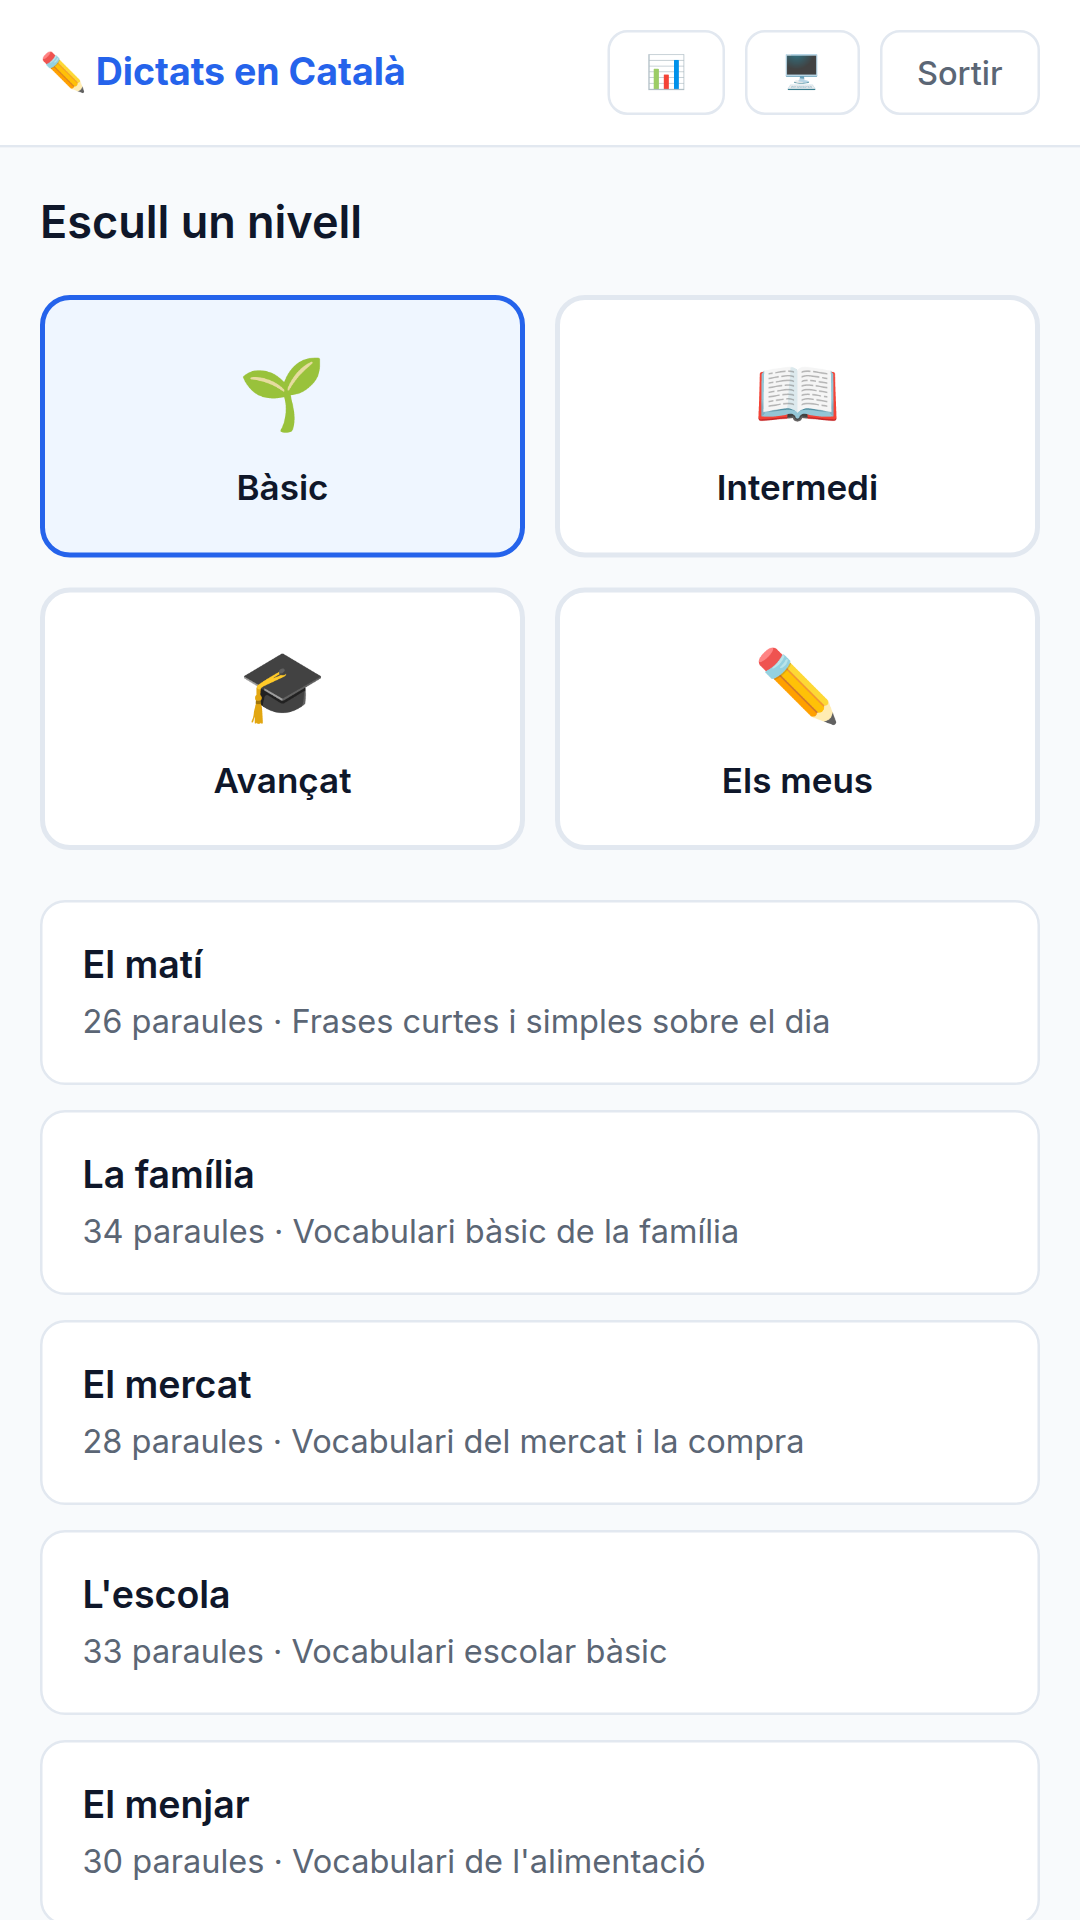
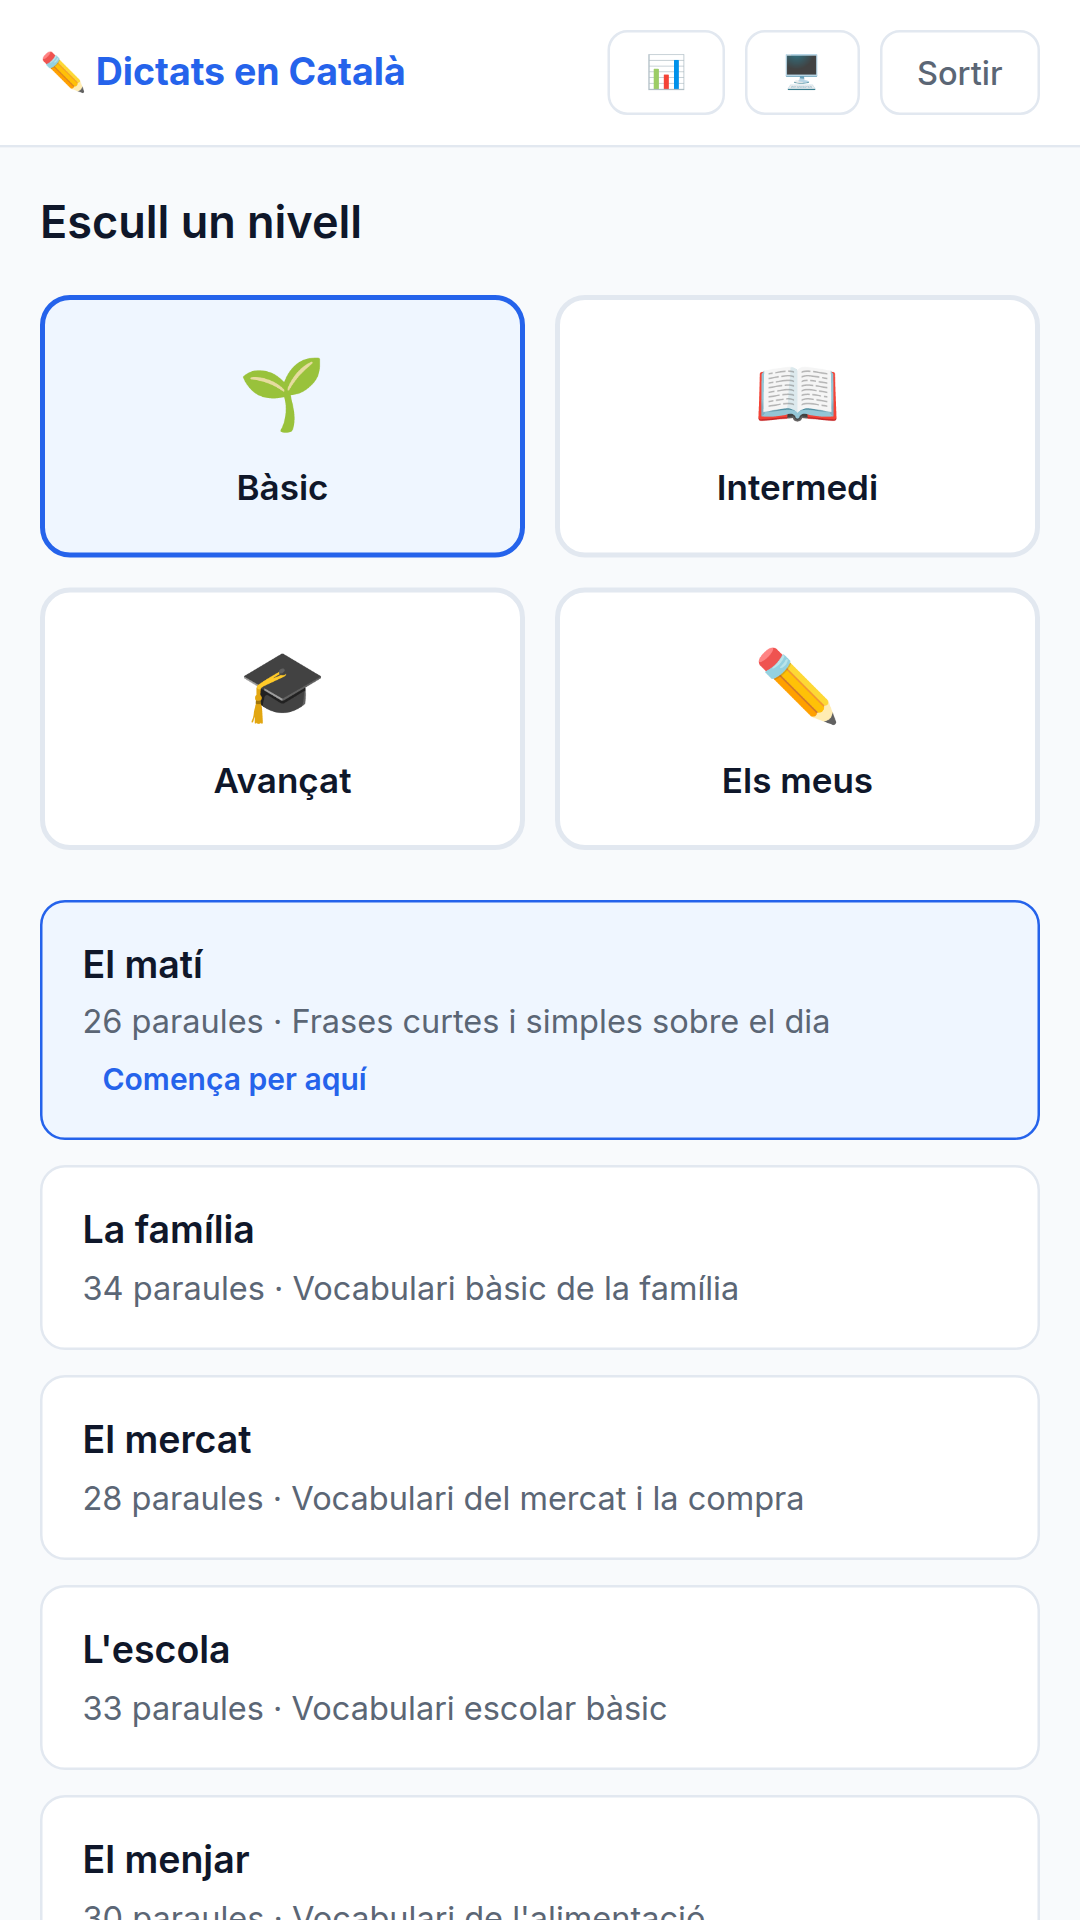
fix: el banc dictava una paraula que no existeix (F70) i les captures eren velles
Refent les captures de la fitxa va sortir que `i1` deia «marzipà», que no és
català: la paraula és «massapà». La app la dictava i la donava per bona.
Comprovat contra hunspell-ca (209.521 entrades): massapà hi és, marzipà no.

- Passat el banc sencer pel diccionari: 798 paraules, la resta d'avisos són
  falsos positius de la comprovació casera o noms propis.
- Queda una duda per a un professor: `a8` cita «Glosari» (la columna d'Eugeni
  d'Ors) i la paraula comuna avui és «glossari».
- Captures refetes: les del 04-09 ensenyaven una app que ja no existeix. Ara
  són sis, amb 06-progres.png (xifres i perfil d'errors).
- La corba de F36 no entra a la captura a posta: la sembra no toca dates, tots
  els dictats són d'avui i sortiria una sola barra.

02-dictat i 05-perfil han sortit idèntiques byte a byte: el generador és
determinista. Banc de proves sense moure's: 850/850, 0 falsos positius.

Claude-Session: https://claude.ai/code/session_01L2Z2HAD4WseweR5qmbRpb5

diff --git a/scripts/captures-play.js b/scripts/captures-play.js
@@ -110,6 +110,26 @@ const espera = ms => new Promise(r => setTimeout(r, ms));
   await espera(900);
   await fes('05-perfil');
 
+  // ── 5. El progrés ────────────────────────────────────────
+  // El capçal del perfil és el rang; el que ensenya que l'app ENTRENA i no
+  // només mesura són les xifres i «de què són els teus errors» (F26).
+  //
+  // Dues decisions d'enquadrament:
+  //  · Es descompta l'alçada del capçal enganxat, que si no tapa el títol de
+  //    la targeta.
+  //  · **No s'hi inclou la corba de F36.** La sembra fa correccions de veritat
+  //    i no toca cap data, així que tots els dictats són d'avui i la corba surt
+  //    amb una sola barra. Una barra no és una corba, i falsejar les dates per
+  //    a una captura de botiga seria ensenyar una app que no existeix.
+  await page.evaluate(() => {
+    const capcal = document.querySelector('.app-header');
+    const alt = capcal ? capcal.getBoundingClientRect().height : 0;
+    const dalt = document.getElementById('stats-grid');
+    if (dalt) window.scrollTo(0, dalt.getBoundingClientRect().top + window.scrollY - alt - 12);
+  });
+  await espera(500);
+  await fes('06-progres');
+
   console.log(`\nDictat fet servir: «${dictat.title}» amb ${ambErrors.fets} errors`);
   await browser.close();
 })().catch((e) => { console.error(e.message); process.exit(1); });

diff --git a/data/texts.js b/data/texts.js
@@ -69,7 +69,7 @@ const texts = {
     {
       id: 'i1',
       title: 'Les tradicions catalanes',
-      text: 'La Castanyada és una festa molt estimada a Catalunya. || Se celebra la nit del dia 31 d\'octubre. || La gent menja castanyes rostides i panellets. || Els panellets es fan amb marzipà i pinyons. || És una tradició que s\'ha mantingut al llarg dels segles.',
+      text: 'La Castanyada és una festa molt estimada a Catalunya. || Se celebra la nit del dia 31 d\'octubre. || La gent menja castanyes rostides i panellets. || Els panellets es fan amb massapà i pinyons. || És una tradició que s\'ha mantingut al llarg dels segles.',
       description: 'Festivitats i tradicions catalanes',
     },
     {

diff --git a/docs/project/ROADMAP.md b/docs/project/ROADMAP.md
@@ -113,6 +113,7 @@ Aquí está la diferencia entre lo que la app es y lo que dice el objetivo.
 | F39 | Nada de lo que cambia se anuncia | Había **cero** atributos `aria-` en todo el frontend y el foco era el del navegador, invisible sobre fondo blanco — en una app que se usa con los oídos. Ahora: `aria-live="polite"` (nunca `assertive`: mientras se dicta hay una voz hablando) en una sola región para estado, barra y frase; `role="alert"` en el aviso de voz; `role="progressbar"` con `aria-valuenow` que se mueve; `aria-pressed` en los toggles; `aria-label` en los enlaces de emoji; foco visible de 3 px y movido al resultado, que además se anuncia; `prefers-reduced-motion`. Todo en `public/a11y.js`. **Destapó dos bugs**: el foco se ponía en una vista aún oculta, y el repintado de F33 se lo llevaba por delante. 9 comprobaciones en `test/f39.navegador.js`. **Contraste medido (v18)** con `test/f39.contrast.js`, que recorre las pantallas reales: 261 trozos de texto, **4 colores por debajo de AA** — el peor, 3,07:1, era el aviso de «no hay voz de síntesis», el mensaje más importante que dice la app. Corregidos manteniendo el tono y con margen; de paso salió que `--success` estaba escrito a mano en 4 sitios y no se enteraba del cambio. **Sin verificar**: ningún lector de pantalla real lo ha leído, y el contraste de los elementos gráficos que no son texto (bordes, rellenos) no está medido | **Hecho (v17-v18)** | Media |
 | F68 | El dictado se daba por completado sin haber sonado | Sin ninguna voz instalada, `speak()` acaba al instante: el motor encadenaba la frase siguiente, las cinco pasaban en un suspiro y la pantalla decía **«Dictat completat» con la barra al 100 % sin haber sonado nada**. El aviso de F21 decía la verdad y la máquina de estados decía lo contrario. Estado propio `sense-veu`, insignia naranja y ningún progreso falso; escribir y corregir siguen funcionando. Lo vio Gerard probando la app en un Linux sin síntesis de voz. 4 comprobaciones en `test/dictat.test.js` | **Hecho (v25)** | Alta |
 | F69 | Las palabras no escritas tapaban los errores | Un dictado de 26 palabras con 8 escritas daba **18 fichas seguidas** de «Aquesta paraula no s'ha escrit», y entre ellas quedaban enterrados los cinco errores que sí se pueden estudiar. Dejar un dictado a medias no son 18 errores independientes: es una sola cosa que ha pasado. Ahora una tirada de 3 o más palabras seguidas sin escribir se resume en una ficha gris — una o dos sueltas no, que ahí sí importa cuál te dejaste. **No toca el recuento**: los errores siguen siendo los que son y la escala no se mueve; si algún día se decide que abandonar un dictado no debe puntuar como veinte faltas, es otra decisión. En `public/errors.js`, uno para las dos vistas. 12 comprobaciones en `npm test` | **Hecho (v25)** | Media |
+| F70 | El banco de textos dictaba una palabra que no existe | `i1` decía **«marzipà»**, que no es catalán: la palabra es **massapà**. La app la dictaba y la enseñaba como correcta, y estaba a punto de entrar en una captura de Play. Corregido y comprobado contra el diccionario oficial (`hunspell-ca`, 209.521 entradas): `massapà` existe, `marzipà` no. Pasado el banco entero por el diccionario: 798 palabras distintas, y el resto de avisos son falsos positivos de la comprobación casera (verbos conjugados, plurales) o nombres propios. **Queda una duda que no decido yo**: `a8` cita «Glosari» (la columna d'Eugeni d'Ors); la palabra común hoy es *glossari* y en un dictado eso puede marcar mal a quien escriba la forma normativa. Una revisión de verdad necesita el binario `hunspell` instalado y, sobre todo, un profesor | **Hecho (v26)** | Alta |
 | F40 | Modo oscuro | Ninguna regla `prefers-color-scheme` en `style.css`. Las variables de color ya están todas en `:root` | Pendiente | Baja |
 | F41 | Escapar el título de los textos personales | `loadTextList()` mete `t.title` crudo en `innerHTML`; el resto de la pantalla sí usa `escapeHtml()`. Solo afecta a la propia cuenta | **Hecho (v6)** | Media |
 | F42 | Editar textos personales | Solo se pueden crear y borrar: una errata obliga a rehacer el texto entero. Y crearlos desde el móvil, que hoy no se puede | Pendiente | Baja |

diff --git a/docs/sections/publicacio/FITXA_PLAY.md b/docs/sections/publicacio/FITXA_PLAY.md
@@ -206,17 +206,27 @@ buida. Cinc, en aquest ordre:
 | 4 | El dictat corrent, amb el compte enrere i els controls | Que es vegi que l'app t'espera a tu |
 | 5 | El perfil amb el progrés | Retenció |
 
-### ✅ Fetes (04-09), menys la de la foto
+### ✅ Fetes (refetes el 07-09), menys la de la foto
 
 Estan a `assets/captures/`, a **1080 × 1920**, que és la mida de telèfon que demana Play:
 
 | Fitxer | Què s'hi veu |
 |---|---|
-| `03-correccio.png` | **La correcció**: «Molt bé! · Quasi perfecte · 40 de 42 paraules · 2 errors», les paraules marcades, el rang i els punts guanyats |
-| `04-errors-classificats.png` | El teu text al costat del correcte, amb el tipus de cada error |
-| `05-perfil.png` | El perfil amb el rang i l'escala sencera dels vuit |
+| `01-nivells.png` | Els quatre nivells i el banc, **amb el que ja has fet marcat i un text proposat** (F35) |
 | `02-dictat.png` | El dictat amb els controls, la velocitat i «Paper i foto» |
-| `01-nivells.png` | Els quatre nivells i el banc de textos |
+| `03-correccio.png` | **La correcció**: «Molt bé! · Quasi perfecte · 40 de 42 paraules · 2 errors», les paraules marcades, el rang i els punts guanyats |
+| `04-errors-classificats.png` | El teu text al costat del correcte, **amb la regla de cada error i com es recorda** (F25) |
+| `05-perfil.png` | El perfil amb el rang i l'escala sencera dels vuit |
+| `06-progres.png` | Les xifres —errors per 100 paraules (F36)— i **«de què són els teus errors»** (F26) |
+
+> ⚠ **Es refan cada vegada que canvia una pantalla.** Les del 04-09 van quedar velles en
+> quatre dies: la llista de textos, la correcció i el perfil són tots diferents des de
+> F25/F26/F35/F36. Una captura que ensenya una app que ja no existeix és pitjor que no
+> tenir-la.
+>
+> La `06` **no inclou la corba de F36** a posta: la sembra no toca cap data, així que tots
+> els dictats són d'avui i la corba surt amb una sola barra. Falsejar dates per a una
+> captura de botiga seria ensenyar el que no hi ha.
 
 **Com s'han fet**, perquè es puguin refer: `scripts/captures-play.js` amb Chrome, contra
 un servidor local i una **BD temporal**, amb l'historial sembrat fent correccions **reals
@@ -252,7 +262,7 @@ capçalera de 1024×500**, que **també existeix** des del rescat de `v12`:
 | Si la fitxa esmenta el C2 i com | Óscar |
 | Si els rangs entren al llançament (#23) | Óscar |
 | Validar les paraules clau amb dades reals | Play Console, un cop publicada |
-| ~~Fer les captures~~ | **Fetes el 04-09**, menys la de la foto (necessita el manuscrit de la #22) |
+| ~~Fer les captures~~ | **Refetes el 07-09** (6, no 5), menys la de la foto (necessita el manuscrit de la #22) |
 | ~~Gràfic de capçalera 1024×500~~ | **Fet**, `assets/grafic-capcalera-1024x500.png` |
 
 ## Fonts

diff --git a/changelogs/2026-09-07_1815_claude-gerard_el-banc-dictava-una-paraula-que-no-existeix.md b/changelogs/2026-09-07_1815_claude-gerard_el-banc-dictava-una-paraula-que-no-existeix.md
@@ -1,0 +1,53 @@
+# El banc dictava una paraula que no existeix
+
+**Data**: 2026-09-07 · **Branca**: `v26` · F70 al roadmap
+
+## Com va sortir
+
+Refent les captures de la fitxa de Play —perquè les del 04-09 havien quedat velles en quatre
+dies— la de la correcció ensenyava això:
+
+```
+Accentuació    marzipa → marzipà
+```
+
+**«Marzipà» no és català.** La paraula és **massapà**. El banc la dictava, la donava per
+bona i estava a punt d'entrar en una captura de la botiga.
+
+Comprovat contra el diccionari oficial (`hunspell-ca`, 209.521 entrades): `massapà` hi és,
+`marzipà` no. Corregit a `data/texts.js` (`i1`, «Les tradicions catalanes»).
+
+## I ja posats, el banc sencer
+
+798 paraules diferents, passades pel mateix diccionari. La resta d'avisos són falsos
+positius de la comprovació —feta a mà, perquè el binari `hunspell` no està instal·lat i el
+que hi ha és el diccionari: verbs conjugats (`agrada`, `dinem`, `compro`), femenins i plurals
+(`famosa`, `països`, `milions`) i noms propis (Domènech, Montaner, Llach).
+
+**Queda una cosa que no decideixo jo.** El text `a8` cita «Glosari», la columna d'Eugeni
+d'Ors. La paraula comuna d'avui és *glossari*, amb dues esses; el títol històric es cita de
+les dues maneres. En una app de dictats això és delicat: qui escrigui la forma normativa se
+la marcarà com a errada. Ho ha de dir un professor.
+
+## Les captures, refetes
+
+Les del 04-09 ensenyaven una app que ja no existeix: des d'aleshores la llista de textos
+porta marques (F35), els errors porten el nom de la seva regla (F25) i el perfil té la corba
+(F36) i «de què són els teus errors» (F26).
+
+Ara són **sis**: s'hi afegeix `06-progres.png`, amb les xifres i el perfil d'errors, que és
+el que ensenya que l'app **entrena** i no només mesura.
+
+Dues decisions d'enquadrament escrites al script:
+
+- Es descompta l'alçada del capçal enganxat, que si no tapava el títol de la targeta.
+- **La corba de F36 no hi surt.** La sembra fa correccions de veritat i no toca cap data, així
+  que tots els dictats són d'avui i la corba surt amb **una sola barra**. Una barra no és una
+  corba, i falsejar dates per a una captura de botiga seria ensenyar el que no hi ha.
+
+`02-dictat.png` i `05-perfil.png` han sortit **idèntiques byte a byte** a les d'abans, que és
+la prova que el generador és determinista.
+
+## Verificat executant
+
+`npm test` en verd i el banc de proves sense moure's: **850/850, 0 falsos positius**.
